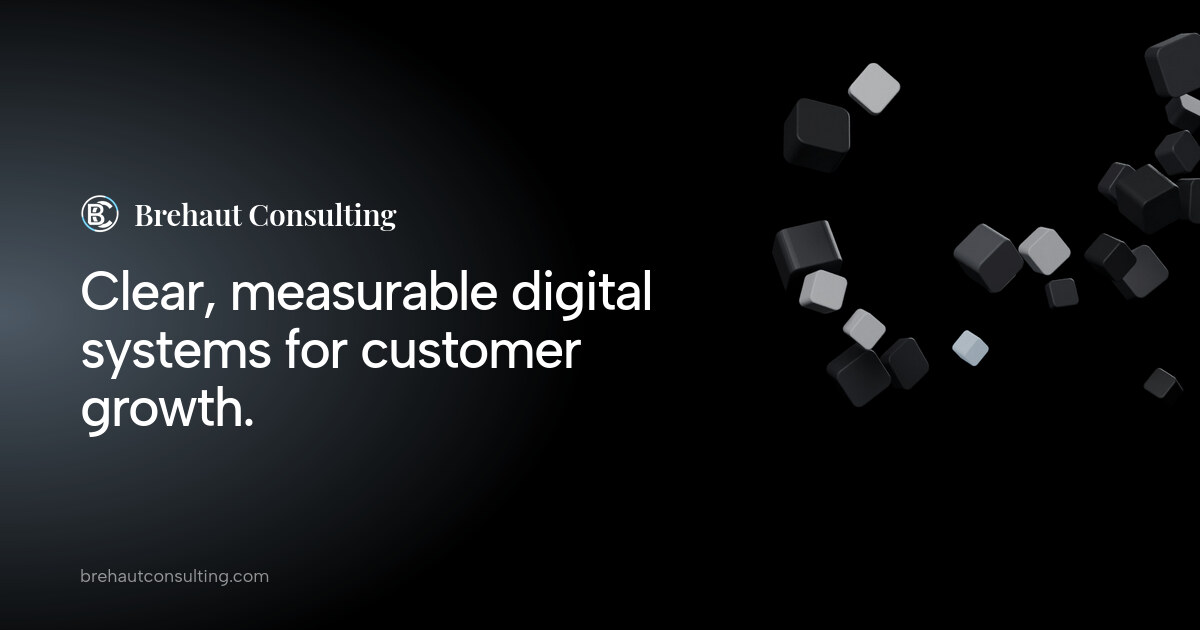
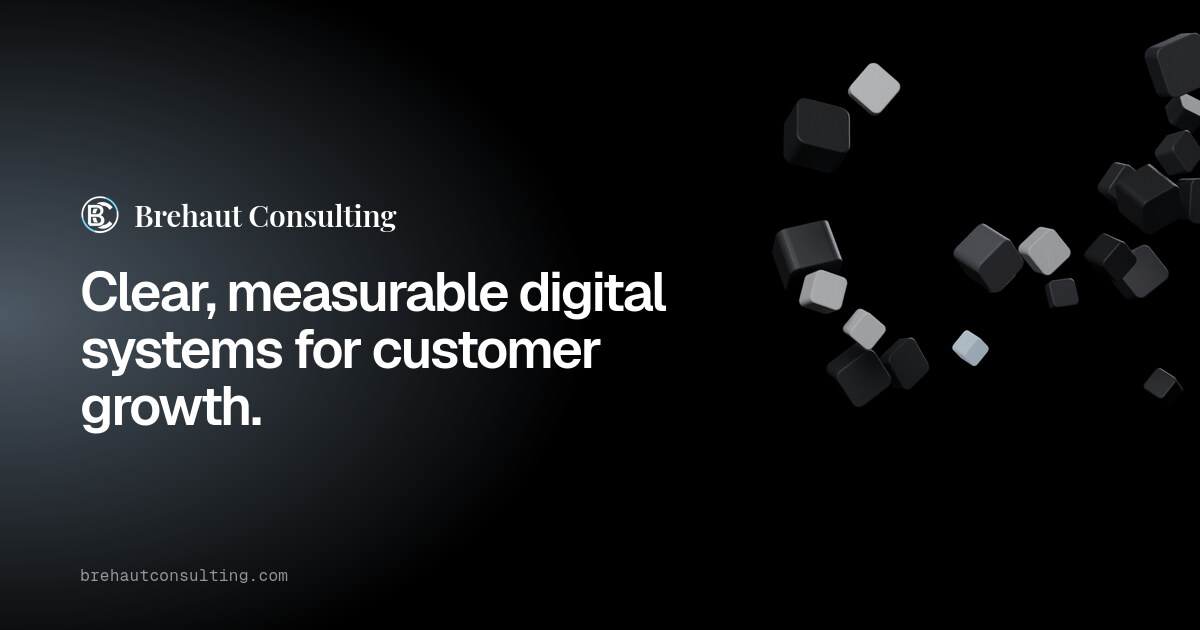
Geist + Geist Mono typography (Playfair kept for wordmark); Instagram link.

Changed region(s): [[0.0617, 0.4222, 0.555, 0.6937], [0.0617, 0.3016, 0.3392, 0.3921], [0.0617, 0.9048, 0.2467, 0.9349]]

diff --git a/components/blocks/styles/blocks-site.css b/components/blocks/styles/blocks-site.css
@@ -8,8 +8,9 @@
   --line: rgb(255 255 255 / 0.1);
   --bg: #000;
   --ease: cubic-bezier(0.22, 1, 0.36, 1);
-  --font-display: var(--font-albert), "Albert Sans", system-ui, sans-serif;
-  --font-brand: var(--font-playfair), "Playfair Display", Georgia, serif;
+  --font-display: var(--font-geist), "Geist", system-ui, sans-serif;
+  --font-brand: var(--font-geist), "Geist", system-ui, sans-serif;
+  --font-mono: var(--font-geist-mono), "Geist Mono", ui-monospace, monospace;
 
   color: var(--ink);
   background: var(--bg);
@@ -85,8 +86,8 @@
   margin: 0;
   font-family: var(--font-brand);
   font-weight: 600;
-  letter-spacing: -0.03em;
-  line-height: 1.12;
+  letter-spacing: -0.04em;
+  line-height: 1.08;
   font-size: clamp(2rem, 4vw, 3rem);
 }
 
@@ -153,8 +154,8 @@
   margin: 0;
   font-family: var(--font-brand);
   font-weight: 600;
-  letter-spacing: -0.03em;
-  line-height: 1.15;
+  letter-spacing: -0.035em;
+  line-height: 1.12;
   font-size: clamp(1.65rem, 3vw, 2.15rem);
 }
 
@@ -1283,7 +1284,7 @@
 }
 
 .blocks-site__status-code {
-  font-family: var(--font-brand);
+  font-family: var(--font-mono);
   font-size: clamp(4rem, 14vw, 8rem);
   line-height: 1;
   color: var(--blue) !important;
@@ -1443,4 +1444,26 @@
   .blocks-site__expect {
     grid-template-columns: 1fr;
   }
+}
+
+/* —— Geist Mono for small technical details —— */
+.blocks-site__service-link-num,
+.blocks-site__step-num,
+.blocks-site__title-num,
+.blocks-site__work-num,
+.blocks-site__crumb,
+.blocks-site__footer-label,
+.blocks-site__work-title {
+  font-family: var(--font-mono);
+  font-feature-settings: normal;
+}
+
+.blocks-site__footer-label,
+.blocks-site__work-title {
+  letter-spacing: 0.04em;
+}
+
+.blocks-site__crumb {
+  font-size: 0.8rem;
+  letter-spacing: 0.01em;
 }

diff --git a/components/blocks/BlocksFooter.tsx b/components/blocks/BlocksFooter.tsx
@@ -3,7 +3,7 @@
 import Image from 'next/image'
 import { Link } from '@/i18n/navigation'
 import { useTranslations } from 'next-intl'
-import { CONTACT_EMAIL, CONTACT_PHONE, LINKEDIN_URL } from '@/lib/constants'
+import { CONTACT_EMAIL, CONTACT_PHONE, INSTAGRAM_URL, LINKEDIN_URL } from '@/lib/constants'
 import { HOME, sitePath } from '@/components/blocks/serviceRoutes'
 import { OPEN_CONSENT_EVENT } from '@/components/consent/CookieConsent'
 
@@ -56,6 +56,14 @@ export default function BlocksFooter() {
                   <span className="blocks-site__footer-label">LinkedIn</span>
                   <span className="blocks-site__footer-value">
                     Brehaut Consulting <span aria-hidden="true">↗</span>
+                  </span>
+                </a>
+              </li>
+              <li>
+                <a href={INSTAGRAM_URL} target="_blank" rel="noopener noreferrer">
+                  <span className="blocks-site__footer-label">Instagram</span>
+                  <span className="blocks-site__footer-value">
+                    @brehautconsulting <span aria-hidden="true">↗</span>
                   </span>
                 </a>
               </li>

diff --git a/lib/fonts.ts b/lib/fonts.ts
@@ -1,10 +1,19 @@
 // Self-hosted at build time by next/font — no request to Google from the browser.
-import { Albert_Sans, Playfair_Display } from 'next/font/google'
+// Geist for all text, Geist Mono for small technical details (numbers, labels),
+// Playfair only for the "Brehaut Consulting" wordmark.
+import { Geist, Geist_Mono, Playfair_Display } from 'next/font/google'
 
-export const albertSans = Albert_Sans({
+export const geist = Geist({
   subsets: ['latin'],
   weight: ['400', '500', '600'],
-  variable: '--font-albert',
+  variable: '--font-geist',
+  display: 'swap',
+})
+
+export const geistMono = Geist_Mono({
+  subsets: ['latin'],
+  weight: ['400', '500'],
+  variable: '--font-geist-mono',
   display: 'swap',
 })
 
@@ -15,4 +24,4 @@ export const playfairDisplay = Playfair_Display({
   display: 'swap',
 })
 
-export const fontClassName = `${albertSans.variable} ${playfairDisplay.variable}`
+export const fontClassName = `${geist.variable} ${geistMono.variable} ${playfairDisplay.variable}`

diff --git a/lib/schema/jsonld.ts b/lib/schema/jsonld.ts
@@ -1,6 +1,6 @@
 // JSON-LD structured data (schema.org) for search engines.
 
-import { CONTACT_EMAIL, CONTACT_PHONE, COMPANY_NAME, LINKEDIN_URL } from '@/lib/constants'
+import { CONTACT_EMAIL, CONTACT_PHONE, COMPANY_NAME, INSTAGRAM_URL, LINKEDIN_URL } from '@/lib/constants'
 import { locales } from '@/i18n'
 
 const BASE_URL = process.env.NEXT_PUBLIC_SITE_URL || 'https://brehautconsulting.com'
@@ -28,7 +28,7 @@ export function organizationSchema(locale: string, description: string) {
       availableLanguage: ['English', 'Swedish', 'Spanish'],
     },
     areaServed: ['Europe', 'Latin America'],
-    sameAs: [LINKEDIN_URL],
+    sameAs: [LINKEDIN_URL, INSTAGRAM_URL],
   }
 }
 

diff --git a/tailwind.config.js b/tailwind.config.js
@@ -57,7 +57,7 @@ module.exports = {
         sm: "calc(var(--radius) - 4px)",
       },
       fontFamily: {
-        sans: ['var(--font-albert)', 'system-ui', 'sans-serif'],
+        sans: ['var(--font-geist)', 'system-ui', 'sans-serif'],
         heading: ['var(--font-space-grotesk)', 'sans-serif'],
         canela: ['var(--font-playfair)', 'serif'],
       },

diff --git a/lib/constants/index.ts b/lib/constants/index.ts
@@ -4,6 +4,7 @@ export const CONTACT_EMAIL = 'contact@brehautconsulting.com'
 export const CONTACT_PHONE = '+46 73 646 30 45'
 
 export const LINKEDIN_URL = 'https://www.linkedin.com/company/112211540/'
+export const INSTAGRAM_URL = 'https://www.instagram.com/brehautconsulting/'
 
 export const COMPANY_NAME = 'Brehaut Consulting'
 

diff --git a/app/[locale]/globals.css b/app/[locale]/globals.css
@@ -318,7 +318,7 @@
   -webkit-backdrop-filter: blur(12px);
   box-shadow: 0 18px 50px rgb(0 0 0 / 0.5);
   color: #fff;
-  font-family: var(--font-albert), "Albert Sans", system-ui, sans-serif;
+  font-family: var(--font-geist), "Geist", system-ui, sans-serif;
   font-size: 0.92rem;
   line-height: 1.5;
 }

diff --git a/components/blocks/styles/blocks-scroll.css b/components/blocks/styles/blocks-scroll.css
@@ -7,7 +7,7 @@
   --line: rgb(255 255 255 / 0.14);
   --bg: #000;
   --ease: cubic-bezier(0.22, 1, 0.36, 1);
-  --font-display: var(--font-albert), "Albert Sans", system-ui, sans-serif;
+  --font-display: var(--font-geist), "Geist", system-ui, sans-serif;
 
   color: var(--ink);
   background: var(--bg);
